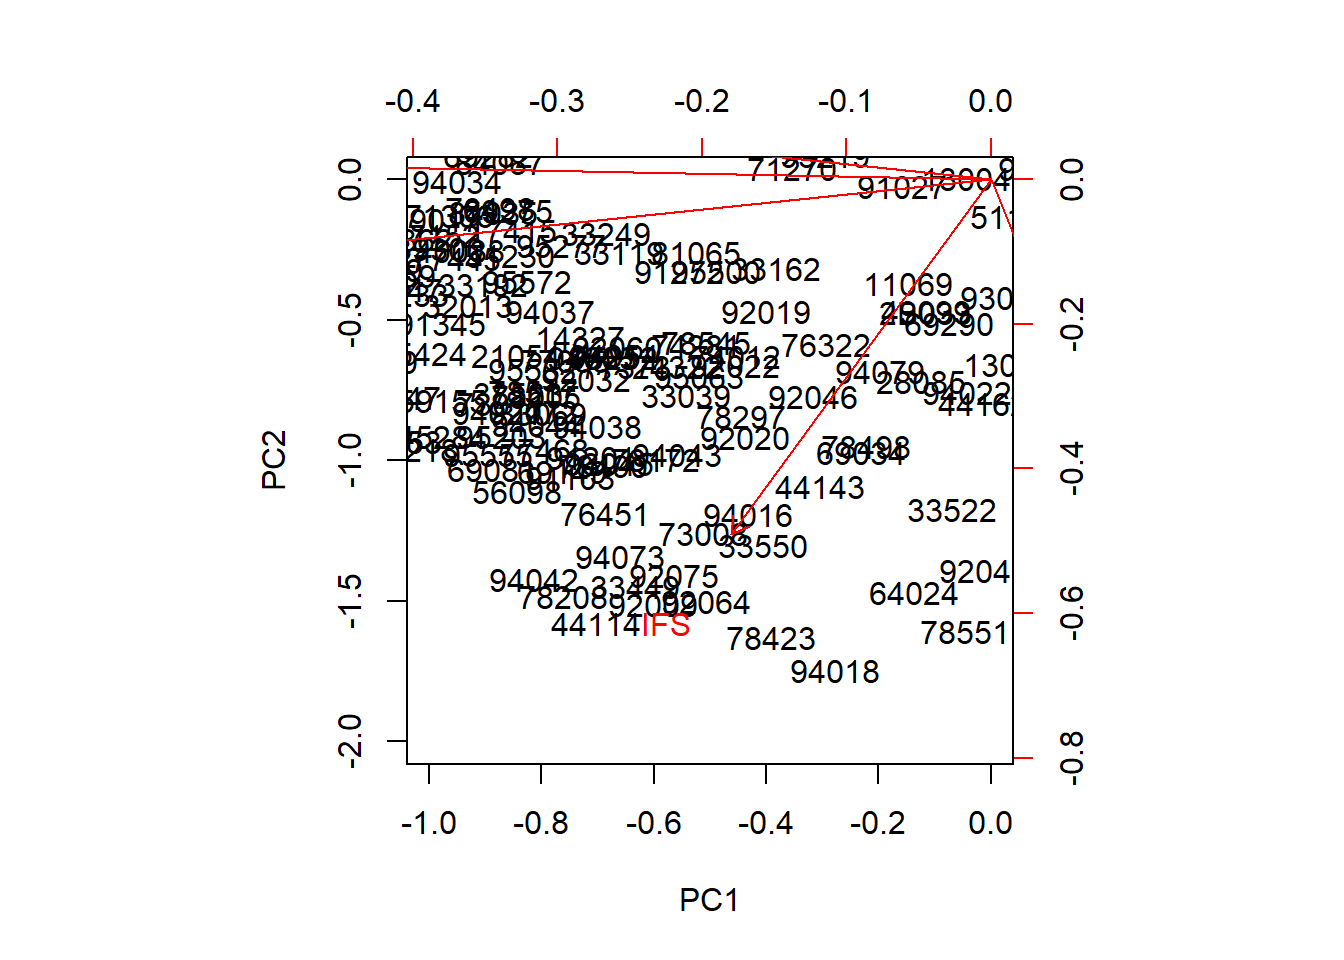
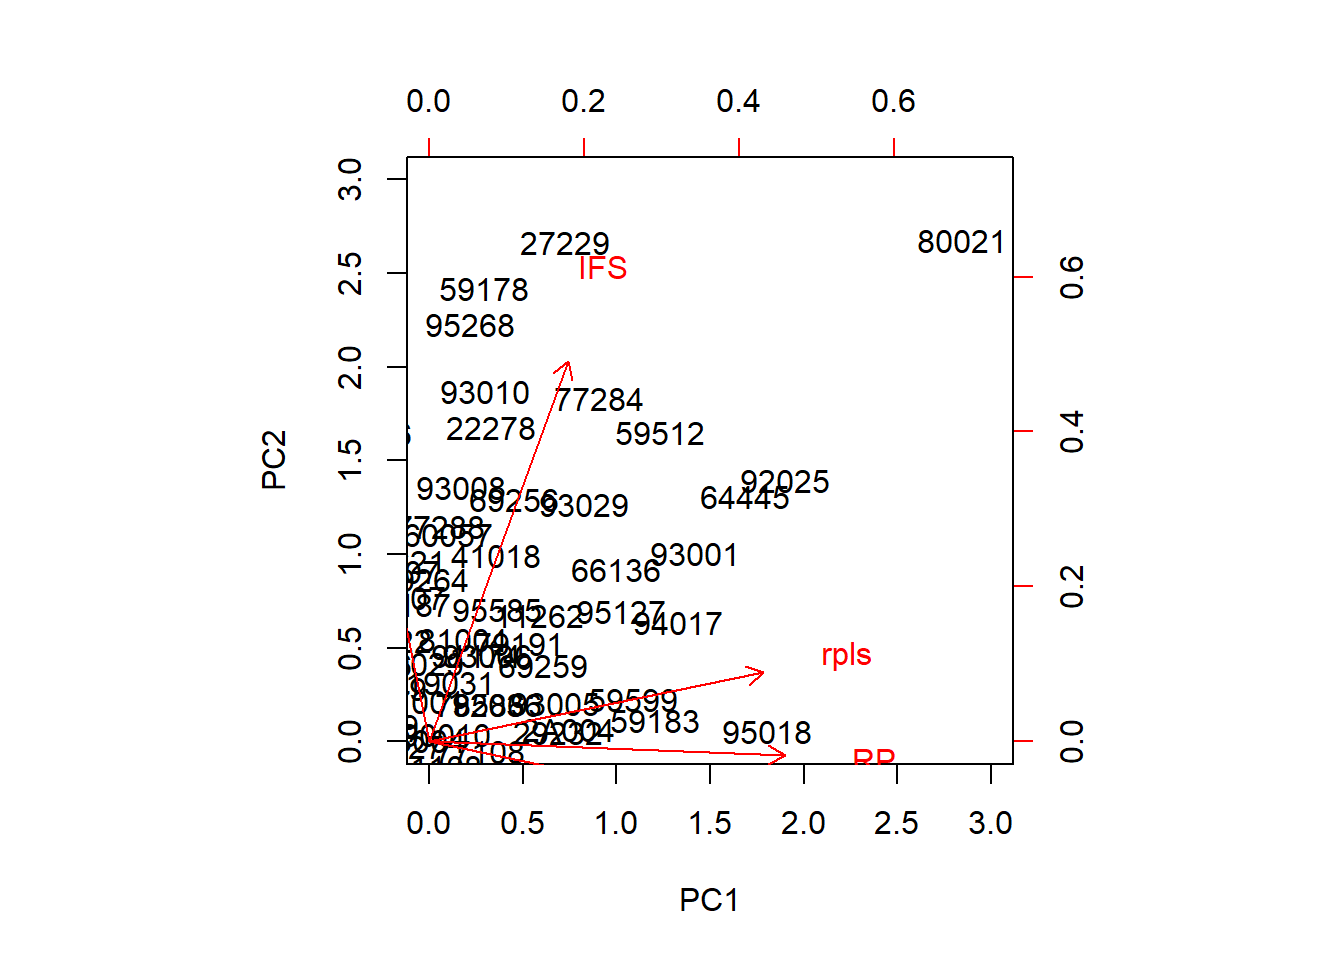
changement entre cours

diff --git a/jour8.html b/jour8.html
@@ -11,9 +11,9 @@
 
 
 
-<title>Mutivariées : analyse factorielle et classification</title>
+<title>Multivariées : analyse factorielle et classification</title>
 
-<script src="site_libs/header-attrs-2.14/header-attrs.js"></script>
+<script src="site_libs/header-attrs-2.18/header-attrs.js"></script>
 <script src="site_libs/jquery-3.6.0/jquery-3.6.0.min.js"></script>
 <meta name="viewport" content="width=device-width, initial-scale=1" />
 <link href="site_libs/bootstrap-3.3.5/css/united.min.css" rel="stylesheet" />
@@ -127,13 +127,20 @@ code span.wa { color: #8f5902; font-weight: bold; font-style: italic; } /* Warni
   for (var i = 0; i < sheets.length; i++) {
     if (sheets[i].ownerNode.dataset["origin"] !== "pandoc") continue;
     try { var rules = sheets[i].cssRules; } catch (e) { continue; }
-    for (var j = 0; j < rules.length; j++) {
+    var j = 0;
+    while (j < rules.length) {
       var rule = rules[j];
       // check if there is a div.sourceCode rule
-      if (rule.type !== rule.STYLE_RULE || rule.selectorText !== "div.sourceCode") continue;
+      if (rule.type !== rule.STYLE_RULE || rule.selectorText !== "div.sourceCode") {
+        j++;
+        continue;
+      }
       var style = rule.style.cssText;
       // check if color or background-color is set
-      if (rule.style.color === '' && rule.style.backgroundColor === '') continue;
+      if (rule.style.color === '' && rule.style.backgroundColor === '') {
+        j++;
+        continue;
+      }
       // replace div.sourceCode by a pre.sourceCode rule
       sheets[i].deleteRule(j);
       sheets[i].insertRule('pre.sourceCode{' + style + '}', j);
@@ -229,11 +236,15 @@ $(document).ready(function () {
     href = "index.html";
   var menuAnchor = $('a[href="' + href + '"]');
 
-  // mark it active
-  menuAnchor.tab('show');
-
-  // if it's got a parent navbar menu mark it active as well
-  menuAnchor.closest('li.dropdown').addClass('active');
+  // mark the anchor link active (and if it's in a dropdown, also mark that active)
+  var dropdown = menuAnchor.closest('li.dropdown');
+  if (window.bootstrap) { // Bootstrap 4+
+    menuAnchor.addClass('active');
+    dropdown.find('> .dropdown-toggle').addClass('active');
+  } else { // Bootstrap 3
+    menuAnchor.parent().addClass('active');
+    dropdown.addClass('active');
+  }
 
   // Navbar adjustments
   var navHeight = $(".navbar").first().height() + 15;
@@ -262,8 +273,8 @@ $(document).ready(function () {
   border-radius: 4px;
 }
 
-.tabset-dropdown > .nav-tabs > li.active:before {
-  content: "";
+.tabset-dropdown > .nav-tabs > li.active:before, .tabset-dropdown > .nav-tabs.nav-tabs-open:before {
+  content: "\e259";
   font-family: 'Glyphicons Halflings';
   display: inline-block;
   padding: 10px;
@@ -271,16 +282,9 @@ $(document).ready(function () {
 }
 
 .tabset-dropdown > .nav-tabs.nav-tabs-open > li.active:before {
-  content: "&#xe258;";
-  border: none;
-}
-
-.tabset-dropdown > .nav-tabs.nav-tabs-open:before {
-  content: "";
+  content: "\e258";
   font-family: 'Glyphicons Halflings';
-  display: inline-block;
-  padding: 10px;
-  border-right: 1px solid #ddd;
+  border: none;
 }
 
 .tabset-dropdown > .nav-tabs > li.active {
@@ -450,7 +454,7 @@ div.tocify {
 
 
 
-<h1 class="title toc-ignore">Mutivariées : analyse factorielle et
+<h1 class="title toc-ignore">Multivariées : analyse factorielle et
 classification</h1>
 
 </div>
@@ -505,16 +509,14 @@ number="2.2.1">
 ##  $ RP     : num  -0.6569 -0.5891 0.4832 0.0798 0.2921 ...
 ##  $ nonDipl: num  1.803 1.20243 -0.06937 0.00129 0.16026 ...
 ##  $ IFS    : num  -0.537 -0.537 -0.537 -0.537 0.978 ...</code></pre>
-<div class="sourceCode" id="cb3"><pre class="sourceCode r"><code class="sourceCode r"><span id="cb3-1"><a href="#cb3-1" aria-hidden="true" tabindex="-1"></a>acp <span class="ot">&lt;-</span> <span class="fu">prcomp</span>(data_cr)</span>
-<span id="cb3-2"><a href="#cb3-2" aria-hidden="true" tabindex="-1"></a><span class="co"># par défaut direction négative on inverse</span></span>
-<span id="cb3-3"><a href="#cb3-3" aria-hidden="true" tabindex="-1"></a>acp<span class="sc">$</span>rotation <span class="ot">&lt;-</span> <span class="sc">-</span><span class="dv">1</span> <span class="sc">*</span> acp<span class="sc">$</span>rotation</span>
-<span id="cb3-4"><a href="#cb3-4" aria-hidden="true" tabindex="-1"></a>acp<span class="sc">$</span>rotation</span></code></pre></div>
+<div class="sourceCode" id="cb3"><pre class="sourceCode r"><code class="sourceCode r"><span id="cb3-1"><a href="#cb3-1" aria-hidden="true" tabindex="-1"></a>acp <span class="ot">&lt;-</span> <span class="fu">prcomp</span>(data_cr, <span class="at">scale =</span>  F)</span>
+<span id="cb3-2"><a href="#cb3-2" aria-hidden="true" tabindex="-1"></a>acp<span class="sc">$</span>rotation</span></code></pre></div>
 <pre><code>##                PC1         PC2        PC3        PC4         PC5
-## rpls    -0.5398933 -0.11091801 -0.1798550 -0.7780208  0.24196743
-## nbEnt   -0.5513202  0.11609167 -0.1842366  0.5818114  0.55688515
-## RP      -0.5742349  0.02307407 -0.1102068  0.1743699 -0.79194161
-## nonDipl  0.1559523 -0.77276678 -0.6001166  0.1336300 -0.02266090
-## IFS     -0.2247097 -0.61361145  0.7492821  0.0889790  0.06037934</code></pre>
+## rpls     0.5398933  0.11091801  0.1798550  0.7780208 -0.24196743
+## nbEnt    0.5513202 -0.11609167  0.1842366 -0.5818114 -0.55688515
+## RP       0.5742349 -0.02307407  0.1102068 -0.1743699  0.79194161
+## nonDipl -0.1559523  0.77276678  0.6001166 -0.1336300  0.02266090
+## IFS      0.2247097  0.61361145 -0.7492821 -0.0889790 -0.06037934</code></pre>
 <p>La taille des axes illustre leur importance (voir commentaire
 graphique)</p>
 </div>
@@ -553,7 +555,7 @@ individus</h4>
 <li>oppositions des axes</li>
 </ul>
 <p>2 variables s’opposent, par exemple le nombre d’entreprises est
-presque en opposition* avec le le nombre de non diplômés.</p>
+presque en opposition avec le le nombre de non diplômés.</p>
 <ul>
 <li>axes voisins</li>
 </ul>
@@ -568,7 +570,7 @@ individus</h4>
 dans le graphique montre leur rapport aux variables.</p>
 <p>Dans le cas présent, il faudrait pouvoir examiner mieux les
 variables, on peut effectuer des zoomes.</p>
-<div class="sourceCode" id="cb9"><pre class="sourceCode r"><code class="sourceCode r"><span id="cb9-1"><a href="#cb9-1" aria-hidden="true" tabindex="-1"></a><span class="fu">biplot</span>(acp, <span class="at">col =</span> <span class="fu">c</span>(<span class="st">&quot;black&quot;</span>, <span class="st">&quot;red&quot;</span>), <span class="at">scale =</span> <span class="dv">0</span>, <span class="at">xlim =</span> <span class="fu">c</span>(<span class="sc">-</span><span class="dv">1</span>, <span class="dv">0</span>), <span class="at">ylim =</span> <span class="fu">c</span>(<span class="sc">-</span><span class="dv">2</span>,<span class="dv">0</span>))</span></code></pre></div>
+<div class="sourceCode" id="cb9"><pre class="sourceCode r"><code class="sourceCode r"><span id="cb9-1"><a href="#cb9-1" aria-hidden="true" tabindex="-1"></a><span class="fu">biplot</span>(acp, <span class="at">col =</span> <span class="fu">c</span>(<span class="st">&quot;black&quot;</span>, <span class="st">&quot;red&quot;</span>), <span class="at">scale =</span> <span class="dv">0</span>, <span class="at">xlim =</span> <span class="fu">c</span>(<span class="dv">0</span>, <span class="dv">3</span>), <span class="at">ylim =</span> <span class="fu">c</span>(<span class="dv">0</span>,<span class="dv">3</span>))</span></code></pre></div>
 <p><img src="jour8_files/figure-html/unnamed-chunk-4-1.png" width="672" /></p>
 <p>Par exemple, les communes autour de l’axe IFS se distinguent par
 rapport à cette variable.</p>
@@ -584,10 +586,10 @@ Essayer d’interpréter.</p>
 </div>
 <div id="classification" class="section level1" number="3">
 <h1><span class="header-section-number">3</span> Classification</h1>
-<div class="sourceCode" id="cb10"><pre class="sourceCode r"><code class="sourceCode r"><span id="cb10-1"><a href="#cb10-1" aria-hidden="true" tabindex="-1"></a><span class="co"># Centrage et réduction</span></span>
-<span id="cb10-2"><a href="#cb10-2" aria-hidden="true" tabindex="-1"></a>data.cr <span class="ot">&lt;-</span> <span class="fu">scale</span>(data, <span class="at">center =</span> T, <span class="at">scale =</span> T)</span>
+<div class="sourceCode" id="cb10"><pre class="sourceCode r"><code class="sourceCode r"><span id="cb10-1"><a href="#cb10-1" aria-hidden="true" tabindex="-1"></a><span class="co"># Centrage et réduction : on repart du fichier</span></span>
+<span id="cb10-2"><a href="#cb10-2" aria-hidden="true" tabindex="-1"></a>data_cr <span class="ot">&lt;-</span> <span class="fu">read.csv</span>(<span class="st">&quot;data/base_cr&quot;</span>, <span class="at">row.names =</span> <span class="dv">1</span>, <span class="at">fileEncoding =</span> <span class="st">&quot;UTF-8&quot;</span>)</span>
 <span id="cb10-3"><a href="#cb10-3" aria-hidden="true" tabindex="-1"></a><span class="co"># matrice des distances entre les individus</span></span>
-<span id="cb10-4"><a href="#cb10-4" aria-hidden="true" tabindex="-1"></a>data.d <span class="ot">&lt;-</span> <span class="fu">dist</span>(data.cr)</span>
+<span id="cb10-4"><a href="#cb10-4" aria-hidden="true" tabindex="-1"></a>data.d <span class="ot">&lt;-</span> <span class="fu">dist</span>(data_cr)</span>
 <span id="cb10-5"><a href="#cb10-5" aria-hidden="true" tabindex="-1"></a><span class="co"># classification</span></span>
 <span id="cb10-6"><a href="#cb10-6" aria-hidden="true" tabindex="-1"></a>cah <span class="ot">&lt;-</span> <span class="fu">hclust</span>(data.d)</span>
 <span id="cb10-7"><a href="#cb10-7" aria-hidden="true" tabindex="-1"></a><span class="co"># dendogramme</span></span>
@@ -599,27 +601,29 @@ Essayer d’interpréter.</p>
 <span id="cb10-13"><a href="#cb10-13" aria-hidden="true" tabindex="-1"></a><span class="co"># découpage</span></span>
 <span id="cb10-14"><a href="#cb10-14" aria-hidden="true" tabindex="-1"></a>groupes.cah <span class="ot">&lt;-</span> <span class="fu">cutree</span>(cah, <span class="at">k =</span> <span class="dv">3</span>)</span>
 <span id="cb10-15"><a href="#cb10-15" aria-hidden="true" tabindex="-1"></a>liste <span class="ot">&lt;-</span> <span class="fu">sort</span>(groupes.cah)</span>
-<span id="cb10-16"><a href="#cb10-16" aria-hidden="true" tabindex="-1"></a><span class="fu">head</span>(liste)</span></code></pre></div>
+<span id="cb10-16"><a href="#cb10-16" aria-hidden="true" tabindex="-1"></a><span class="fu">table</span>(liste)</span>
+<span id="cb10-17"><a href="#cb10-17" aria-hidden="true" tabindex="-1"></a><span class="fu">tail</span>(liste,<span class="dv">28</span>)</span></code></pre></div>
 <p><img src="img/dendo.png" /></p>
 </div>
-<div id="représentation-graphique" class="section level1" number="4">
+<div id="représentation-graphique-analyse-factorielle-et-classification"
+class="section level1" number="4">
 <h1><span class="header-section-number">4</span> Représentation
-graphique</h1>
+graphique analyse factorielle et classification</h1>
 <p>Il s’agit de représenter les groupes par des couleurs sur l’ACP
 précédente (dans le premier axe)</p>
 <div class="sourceCode" id="cb11"><pre class="sourceCode r"><code class="sourceCode r"><span id="cb11-1"><a href="#cb11-1" aria-hidden="true" tabindex="-1"></a>data_cr <span class="ot">&lt;-</span> <span class="fu">read.csv</span>(<span class="st">&quot;data/base_cr&quot;</span>, <span class="at">row.names =</span> <span class="dv">1</span>, <span class="at">fileEncoding =</span> <span class="st">&quot;UTF-8&quot;</span>)</span>
-<span id="cb11-2"><a href="#cb11-2" aria-hidden="true" tabindex="-1"></a>acp <span class="ot">&lt;-</span> <span class="fu">princomp</span>(data_cr, <span class="at">cor =</span> T, <span class="at">scores =</span> T)</span>
+<span id="cb11-2"><a href="#cb11-2" aria-hidden="true" tabindex="-1"></a>acp <span class="ot">&lt;-</span> <span class="fu">princomp</span>(data_cr, <span class="at">cor =</span> F, <span class="at">scores =</span> T)</span>
 <span id="cb11-3"><a href="#cb11-3" aria-hidden="true" tabindex="-1"></a><span class="fu">par</span>(<span class="at">bg =</span> <span class="st">&quot;lightgrey&quot;</span>, <span class="at">mar =</span> <span class="fu">c</span>(<span class="dv">1</span>,<span class="dv">1</span>,<span class="dv">1</span>,<span class="dv">1</span>))</span>
 <span id="cb11-4"><a href="#cb11-4" aria-hidden="true" tabindex="-1"></a><span class="fu">plot</span>(acp<span class="sc">$</span>scores[,<span class="dv">1</span>],acp<span class="sc">$</span>scores[,<span class="dv">2</span>], <span class="at">type =</span> <span class="st">&quot;p&quot;</span>)</span>
 <span id="cb11-5"><a href="#cb11-5" aria-hidden="true" tabindex="-1"></a><span class="fu">text</span>(acp<span class="sc">$</span>scores[,<span class="dv">1</span>],acp<span class="sc">$</span>scores[,<span class="dv">2</span>],<span class="at">col=</span><span class="fu">c</span>(<span class="fu">topo.colors</span>(<span class="dv">3</span>))[groupes.cah],cex</span>
 <span id="cb11-6"><a href="#cb11-6" aria-hidden="true" tabindex="-1"></a><span class="ot">=</span><span class="dv">1</span>,<span class="at">labels=</span><span class="fu">rownames</span>(data))</span></code></pre></div>
 <p><img src="img/cah2.png" /></p>
+<div id="deuxième-traitement" class="section level2" number="4.1">
+<h2><span class="header-section-number">4.1</span> Deuxième
+traitement</h2>
+<p>Retirer les valeurs aberrantes, ici les groupes 2 et 3, jouer sur la
+taille des groupes et rejouer la classification, puis analyser.</p>
 </div>
-<div id="deuxième-traitement" class="section level1" number="5">
-<h1><span class="header-section-number">5</span> Deuxième
-traitement</h1>
-<p>Retirer les valeurs aberrantes, jouer sur la taille des groupes et
-rejouer la classification, puis analyser.</p>
 </div>
 
 <br><br><br><br><br><br><br><br><br><br><br><br>
